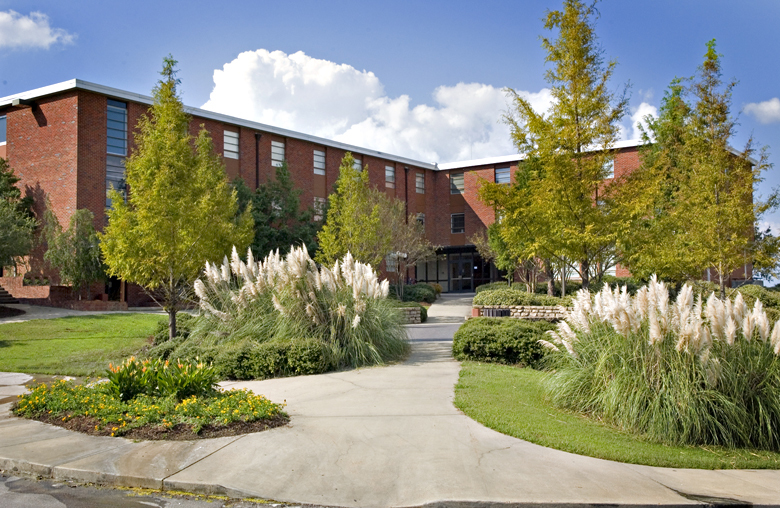
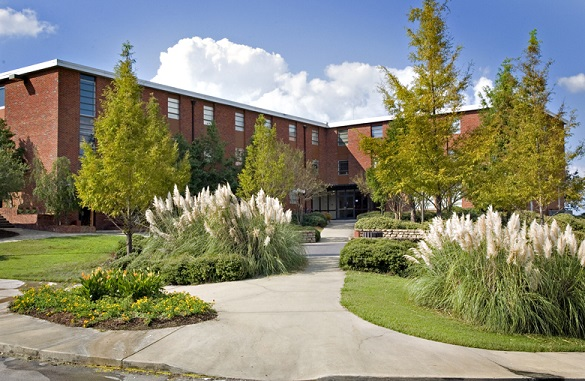
fixed formatting of carousel

diff --git a/client/src/components/HomePage.js b/client/src/components/HomePage.js
@@ -64,7 +64,7 @@ export default function HomePage() {
                         Live Classroom Chat
                     </h1>
                 </div>
-                <p style={{ textAlign: "center" }}>Our live classroom chat allows students to ask questions, while anonymously to other students, to teachers live during class. </p>
+                <p style={{ textAlign: "center" }}>Our live classroom chat allows students to ask questions, while anonymous to other students, to teachers live during class. </p>
             </div>
         </div>
     </div>

diff --git a/client/src/components/HomePage.css b/client/src/components/HomePage.css
@@ -1,6 +1,9 @@
 .HomeCarousel{
     padding-top: 0px;
+    padding-left: 300px;
+    padding-right: 300px;
     padding-bottom: 80px;
+    max-height: 600px;
 }
 
 .imgSettings{
@@ -9,7 +12,10 @@
 }
 
 .container{
+    padding-top: 100px;
     padding-bottom: 20px;
+    /* padding-right: 600px;
+    padding-left: 600px; */
 }
 
 .imgContainer{
